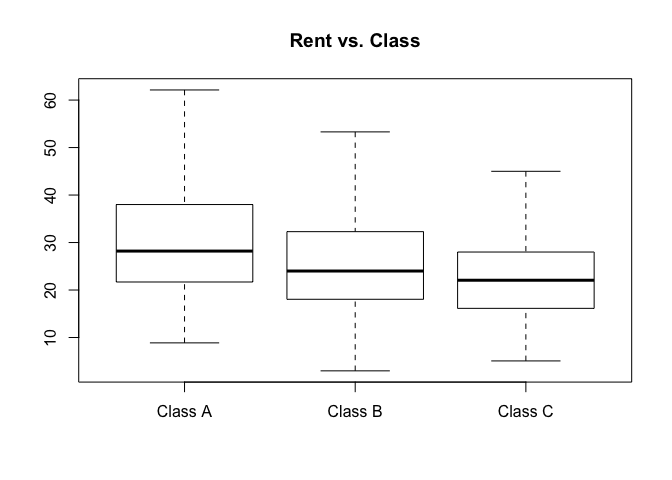
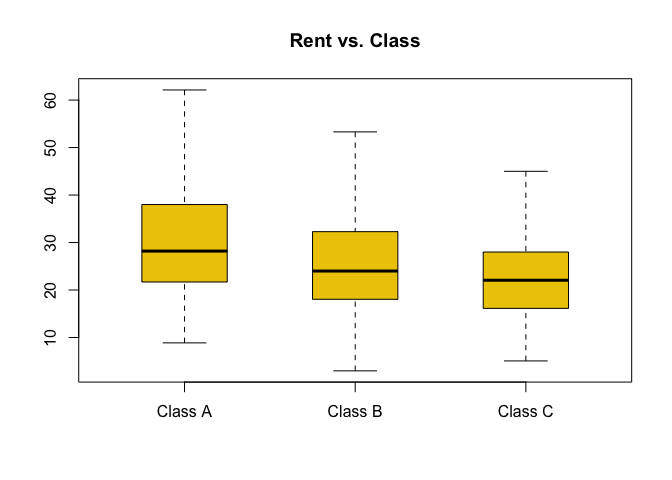
Green Building updated

Changed region(s): [[0.1562, 0.4062, 0.375, 0.5938], [0.4062, 0.4688, 0.625, 0.625], [0.6562, 0.5, 0.9062, 0.6562]]

diff --git a/GreenBuilding.md b/GreenBuilding.md
@@ -12,7 +12,7 @@ Is this data cleaning step necessary? We looked into the distribution of
 leasing rate of green buildings and non-green buildings. Interestingly,
 the distribution of non-green buildings' leasing rate has a shoot up in
 the range below 10%. Therefore, we hold the same belief that these
-buildings are "weired" and should be removed from our analysis.
+buildings are "weird" and should be removed from our analysis.
 
     par(mfrow=c(1,2))
     hist(green_buildings$leasing_rate, main="Green Buildings", xlab="Leasing Rate", ylab = "")
@@ -28,16 +28,17 @@ buildings are "weired" and should be removed from our analysis.
 The way the author calculates the premium rent for green buildings is
 too generic as there are confounding variables. It is important to
 control the confounding variables in our analysis so that we can see how
-green rating influences the rent. Age is one of the confounding
+the green rating influences the rent. Age is one of the confounding
 variables. As shown in the plot, green buildings are highly concentrated
 in the lower range of age, which means they are relatively new, thus
-higher rent. We decided to analyze the buildings with ages less than 50.
+having higher rent. We decided to analyze the buildings with ages less
+than 50.
 
     green_median = green_buildings[green_buildings$Rent == median(green_buildings$Rent),]
     nongreen_median = non_green_buildings[non_green_buildings$Rent == median(non_green_buildings$Rent),]
     plot(non_green_buildings$age, non_green_buildings$Rent, col="grey", pch=19, cex=0.5, xlab = "Buildings Age", ylab="Annual Rent") 
-    abline(v=mean(nongreen_median$age),col='grey',lwd=2)
-    abline(v=mean(green_median$age),col='red',lwd=2)
+    abline(v=median(nongreen_median$age),col='grey',lwd=2)
+    abline(v=median(green_median$age),col='red',lwd=2)
     points(green_buildings$age, green_buildings$Rent, col="red", pch=19, cex=0.5)
     legend(x=100,y=250,cex=0.7,legend=c('Non-Green buildings','Median Age Non-Green Buildings','Green buildings','Median Age Green Buildings'),lty=c(NA,1,NA,1),pch=c(19,NA,19,NA),col=c('grey','grey','red','red'))
 
@@ -49,24 +50,27 @@ buildings have an enormously high percentage falling into class A and
 class B. Therefore, we removed buildings in class C in our analysis.
 
     buildings$class = ifelse(buildings$class_a==1, 1, ifelse(buildings$class_b==1, 2, 3))
-    boxplot(buildings$Rent~buildings$class,outline=FALSE, names = c("Class A", "Class B", "Class C"), main="Rent vs. Class")
+    boxplot(buildings$Rent~buildings$class,outline=FALSE,boxwex=0.5, col=c('gold2','gold2','gold2'), names = c("Class A", "Class B", "Class C"), main="Rent vs. Class")
+
+    library(ggplot2)
 
 ![](GreenBuilding_files/figure-markdown_strict/con_class-1.png)
 
     par(mfrow=c(1,2))
+
     pie_chart = table(buildings$green_rating, buildings$class)
-    pie(pie_chart[2,], labels = c('Class A', 'Class B', 'Class C'), col=c('azure3','azure2','azure1'), main="Green Buildings")
-    pie(pie_chart[1,], labels = c('Class A', 'Class B', 'Class C'), col=c('azure3','azure2','azure1'), main="Non-green Buildings", init.angle  = 90)
+    pie(pie_chart[2,], labels = c('Class A: 80%', 'Class B: 19%', 'Class C: 1%'), col=c('deepskyblue','gold','grey'), main="Green Buildings", init.angle = 150)
+    pie(pie_chart[1,], labels = c('Class A: 36%', 'Class B: 48%', 'Class C: 16%'), col=c('deepskyblue','gold','grey'), main="Non-green Buildings", init.angle  = 90)
 
 ![](GreenBuilding_files/figure-markdown_strict/con_class-2.png)
 
     green_buildings_con = subset(green_buildings, age<=50 & (class_a==1 | class_b==1))
     non_green_buildings_con = subset(non_green_buildings, age<=50 & (class_a==1 | class_b==1))
 
-Then we calculate the how much the premium in rent is brought by green
+Then we calculate how much the premium in rent is brought by green
 rating. We first group the buildings based on cluster, and then
-calculate the difference between the green building's rent and the
-meadian of non-green buildings within the same cluster. The mean of
+calculate the difference between the median of green building's rent and
+that of non-green buildings within the same cluster. The mean of
 difference among all clusters is 2.2 which is our expected premium rent.
 
     non_green_clusters<- non_green_buildings_con%>%
@@ -114,7 +118,20 @@ Each building is a gray dot in the plot. We draw a line with KNN (k set
 to 20) to show a smooth general trend of LR over age. It turns out that
 the total revenue doesn't go down with an increasing age. Therefore, we
 could assume that the 2.2 premium for green rating holds for at least
-the first 50 years. The annual extra revenue from green rating is 2.2 ×
-250,000 (size) = $550,000 and it needs $5,000,000 / $550,000 = 9 years
-to recuperate the extra cost. In summary, it is a profitable movement to
-build a green rated building.
+the first 50 years. And for the occupancy rate:
+
+    hist(green_buildings_con$leasing_rate, breaks = 50, xlim=c(50, 100), ylab='', main='Leasing Rate for Green Buildings', xlab='')
+
+![](GreenBuilding_files/figure-markdown_strict/o_rate-1.png) The leasing
+rate for green buildings is highly left-skewed, so the median is a
+better estitamation for our building, which is 92.9%. Besides revenue,
+the cost for green buildings could potentially be higher than non-green
+ones. Without enough information to quantify that, we assume that the
+extra cost is about 5% of total revenue. The median of green buildings'
+rent is $30, which makes the cost $1.5.
+
+Therefore, the annual extra revenue from green rating is ($2.2-$1.5) ×
+92.9% × 250,000 (size) = $162,757 and it needs $5,000,000 / $162,757 =
+30 years to recuperate the extra cost. 30 years as the payback period of
+an investment is too long and makes the company exposed to risks. We
+would suggest not building the green building.
